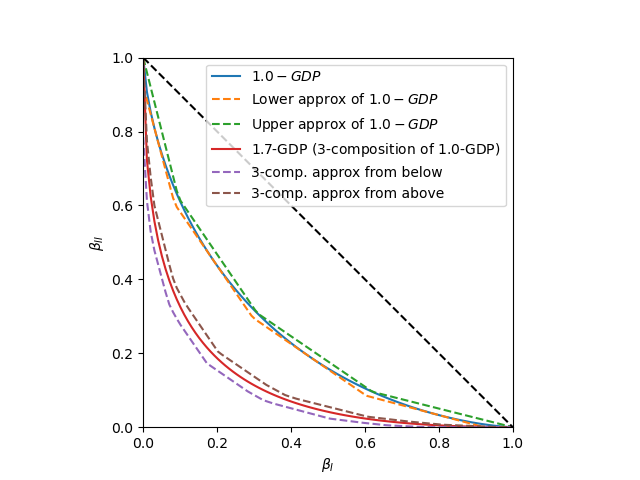
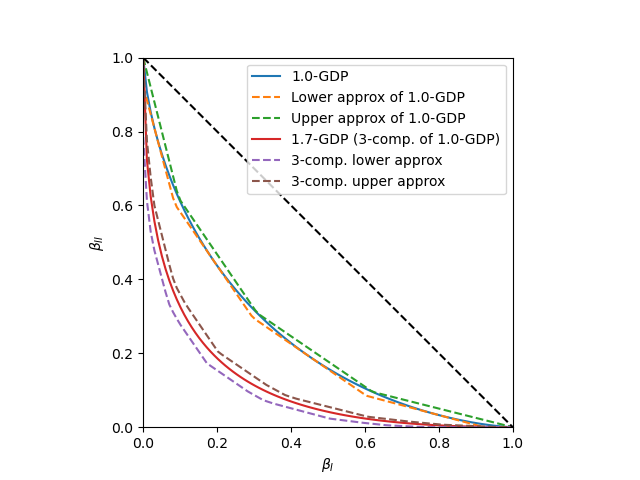
stylistic improvements to plots

Changed region(s): [[0.3125, 0.125, 0.7812, 0.4375], [0.3125, 0.3438, 0.3438, 0.4062]]

diff --git a/src/main.py b/src/main.py
@@ -113,13 +113,21 @@ def main_theorem_comparison_two_ks(eps_1, delta_1, eps_2, delta_2, k1, k2, title
          f_dptv_k2
          ],
         [
-         f"Double DP {k1}-comp.",
-         f"Single DP {k1}-comp",
-         f"DPTV {k1}-comp",
-         f"Double DP {k2}-comp.",
-         f"Single DP {k2}-comp",
-         f"DPTV {k2}-comp"
+         f"Theorems 2-3, $k = {k1}$",
+         f"Remark 1, $k = {k1}$",
+         f"Remark 2, $k = {k1}$",
+         f"Theorems 2-3, $k = {k2}$",
+         f"Remark 1, $k = {k2}$",
+         f"Remark 2, $k = {k2}$"
          ],
+        [
+            "solid",
+            "dashed",
+            "dashed",
+            "solid",
+            "dashed",
+            "dashed",
+        ],
         save_to=png(title)
     )
 
@@ -159,7 +167,7 @@ def gaussian_tradeoff_approx(mu, title):
             g_mu_approx_above,
         ],
         [
-            f"${float(mu):.2}-GDP$",
+            f"{float(mu):.2}-GDP",
             f"Approx below",
             "Approx above",
         ],
@@ -200,7 +208,7 @@ def gaussian_compos_approx(mu, k, title):
             g_mu_composed_above
         ],
         [
-            f"${float(mu_composed):.2}$-GDP ({k}-composition of ${float(mu):.2}$-GDP)",
+            f"{float(mu_composed):.2}-GDP ({k}-composition of {float(mu):.2}-GDP)",
             "Comp. approx from below",
             "Comp. approx from above"
         ],
@@ -245,12 +253,12 @@ def gaussian_tradeoff_and_compos_approx(mu, k, title):
             g_mu_composed_above
         ],
         [
-            f"${float(mu):.2}-GDP$",
-            f"Lower approx of ${float(mu):.2}-GDP$",
-            f"Upper approx of ${float(mu):.2}-GDP$",
-            f"${float(mu_composed):.2}$-GDP ({k}-composition of ${float(mu):.2}$-GDP)",
-            f"{k}-comp. approx from below",
-            f"{k}-comp. approx from above"
+            f"{float(mu):.2}-GDP",
+            f"Lower approx of {float(mu):.2}-GDP",
+            f"Upper approx of {float(mu):.2}-GDP",
+            f"{float(mu_composed):.2}-GDP ({k}-comp. of {float(mu):.2}-GDP)",
+            f"{k}-comp. lower approx",
+            f"{k}-comp. upper approx"
         ],
         [
             "solid",
@@ -306,15 +314,96 @@ def gaussian_compos_approx_two_compos(mu, k1, k2, title):
             g_mu_composed_above_2
         ],
         [
-            f"${float(mu_composed_k1):.2}$-GDP ({k1}-composition of ${float(mu):.2}$-GDP)",
-            f"{k1}-comp. approx from below",
-            f"{k1}-comp. approx from above",
-            f"${float(mu_composed_k2):.2}$-GDP ({k2}-composition of ${float(mu):.2}$-GDP)",
-            f"{k2}-comp. approx from below",
-            f"{k2}-comp. approx from above",
+            f"{k1}-composition of {float(mu):.2}-GDP",
+            f"{k1}-comp. lower approx",
+            f"{k1}-comp. upper approx",
+            f"{k2}-composition of {float(mu):.2}-GDP",
+            f"{k2}-comp. lower approx",
+            f"{k2}-comp. upper approx",
+        ],
+        [
+            "solid",
+            "dashed",
+            "dashed",
+            "solid",
+            "dashed",
+            "dashed"
         ],
         save_to=png(title)
     )
+
+
+def gaussian_compos_approx_tradeoff_and_two_compos(mu, k1, k2, title):
+    """
+    Plot the double-DP lower and upper approximations of the gaussian trade-off composition for 2 values of k
+    along with the approximation of the gaussian trade_off itself.
+    """
+    mu_composed_k1 = np.sqrt(k1) * mu
+    mu_composed_k2 = np.sqrt(k2) * mu
+
+    g_mu = GaussianTradeoff(mu)
+
+    g_mu_composed_k1 = GaussianTradeoff(mu_composed_k1)
+    g_mu_composed_k2 = GaussianTradeoff(mu_composed_k2)
+
+    g_mu_approx_below = g_mu.approx_from_below()
+    g_mu_approx_above = g_mu.approx_from_above()
+
+    eps_ls = g_mu_approx_below.get_eps_list()
+    delta_ls = g_mu_approx_below.get_delta_list()
+    g_mu_composed_below = privacy_region_composition_double_dp_heterogeneous_comp(
+        eps_ls[0], delta_ls[0], eps_ls[1], delta_ls[1], k1
+    )
+    g_mu_composed_below_2 = privacy_region_composition_double_dp_heterogeneous_comp(
+        eps_ls[0], delta_ls[0], eps_ls[1], delta_ls[1], k2
+    )
+
+    eps_ls = g_mu_approx_above.get_eps_list()
+    delta_ls = g_mu_approx_above.get_delta_list()
+    g_mu_composed_above = privacy_region_composition_double_dp_heterogeneous_comp(
+        eps_ls[0], delta_ls[0], eps_ls[1], delta_ls[1], k1
+    )
+    g_mu_composed_above_2 = privacy_region_composition_double_dp_heterogeneous_comp(
+        eps_ls[0], delta_ls[0], eps_ls[1], delta_ls[1], k2
+    )
+
+    plot_multiple_functions(
+        [
+            g_mu,
+            g_mu_approx_below,
+            g_mu_approx_above,
+            g_mu_composed_k1,
+            g_mu_composed_below,
+            g_mu_composed_above,
+            g_mu_composed_k2,
+            g_mu_composed_below_2,
+            g_mu_composed_above_2
+        ],
+        [
+            f"{float(mu):.2}-GDP",
+            f"Lower approx of {float(mu):.2}-GDP",
+            f"Upper approx of {float(mu):.2}-GDP",
+            f"{k1}-composition of {float(mu):.2}-GDP",
+            f"{k1}-comp. lower approx",
+            f"{k1}-comp. upper approx",
+            f"{k2}-composition of {float(mu):.2}-GDP",
+            f"{k2}-comp. lower approx",
+            f"{k2}-comp. upper approx",
+        ],
+        [
+            "solid",
+            "dashed",
+            "dashed",
+            "solid",
+            "dashed",
+            "dashed",
+            "solid",
+            "dashed",
+            "dashed"
+        ],
+        save_to=png(title)
+    )
+
 
 def laplace_tradeoff_approx(eps, title):
     """
@@ -330,7 +419,7 @@ def laplace_tradeoff_approx(eps, title):
             laps_eps_approx_above
         ],
         [
-            f"$Laplace({eps})-DP$",
+            f"Laplace({eps})-DP",
             "Approx below",
             "Approx above",
         ],
@@ -354,3 +443,4 @@ if __name__ == "__main__":
                                    k1=3, k2=10, title="theorem_1_comparison_two_ks")
     main_theorem_comparison_two_ks(eps_1 = 0.3, delta_1 = 0.0, eps_2 = 0.15, delta_2 = 0.02, k1=3, k2=20,
                                   title="theorem_1_comparison_two_ks_small_region")
+    gaussian_compos_approx_tradeoff_and_two_compos(k1=3, k2=10, mu=1, title="gaussian_tradeoff_and_2_compos")
